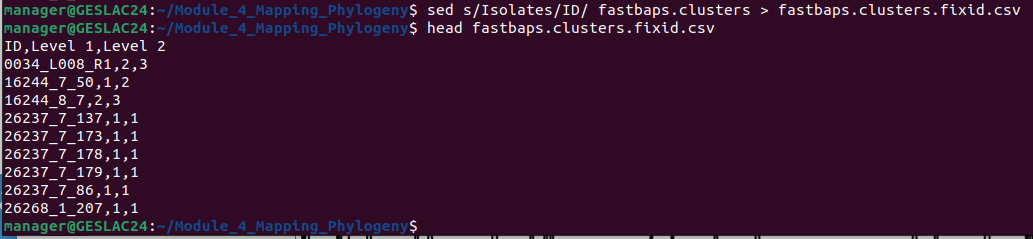
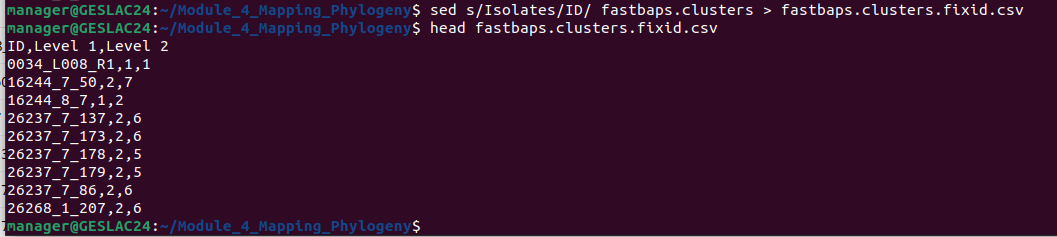
Updates to BAPS clustering model within Mapping exercise.

Changed region(s): [[0.0, 0.0, 1.0, 1.0]]

diff --git a/Manuals/Mapping_and_Phylogenetics/Mapping+Phylo.md b/Manuals/Mapping_and_Phylogenetics/Mapping+Phylo.md
@@ -769,12 +769,14 @@ Phandango should automatically display blocks of recombination in <span style="c
 We can cluster genomes for epidemiology in a variety of ways, depending on the goal and genetic distances involved. Here will use `fastBAPS`, which is an optimised  implementation of the original `hierBAPS` algorithm for hierarchical partitioning and Bayesian clustering of genomes. `fastBAPS` can be run in `R` as well as from the command line.
 
 In the command below, we:
-* specify a set of SNPs/alleles for use by the model 
+* specify a set of SNPs/alleles for use by the model. 
   * `-i gubbins.filtered_polymorphic_sites.fasta`
-* specify the name of the output file 
+* specify the name of the output file. 
   * `-o fastbaps.clusters.csv`
-* specify that we want hierarchical clustering at two different levels (i.e. BAPS will attempt to subdivide "level 1 clusters" to form "level 2 clusters") 
+* specify that we want hierarchical clustering at two different levels (i.e. BAPS will attempt to subdivide "level 1 clusters" to form "level 2 clusters"). 
   * `--levels 2`
+* specify a model for delineating genomes - we will use a relaxed clustering model which should maximise the number of clusters we get at level 2.
+  * `-p optimise.baps`
 ```
 run_fastbaps -i gubbins.filtered_polymorphic_sites.fasta -o fastbaps.clusters --levels 2
 ```
@@ -800,9 +802,7 @@ head fastbaps.clusters.fixid.csv
 ![fastbaps.fixid.code](fastbaps.fixid__2024.png)
 
 
-
-
-
+<br>
 <br>
 
 Go to the `microreact` webpage, and try uploading the new gubbins filtered tree and the fastbaps clusters
